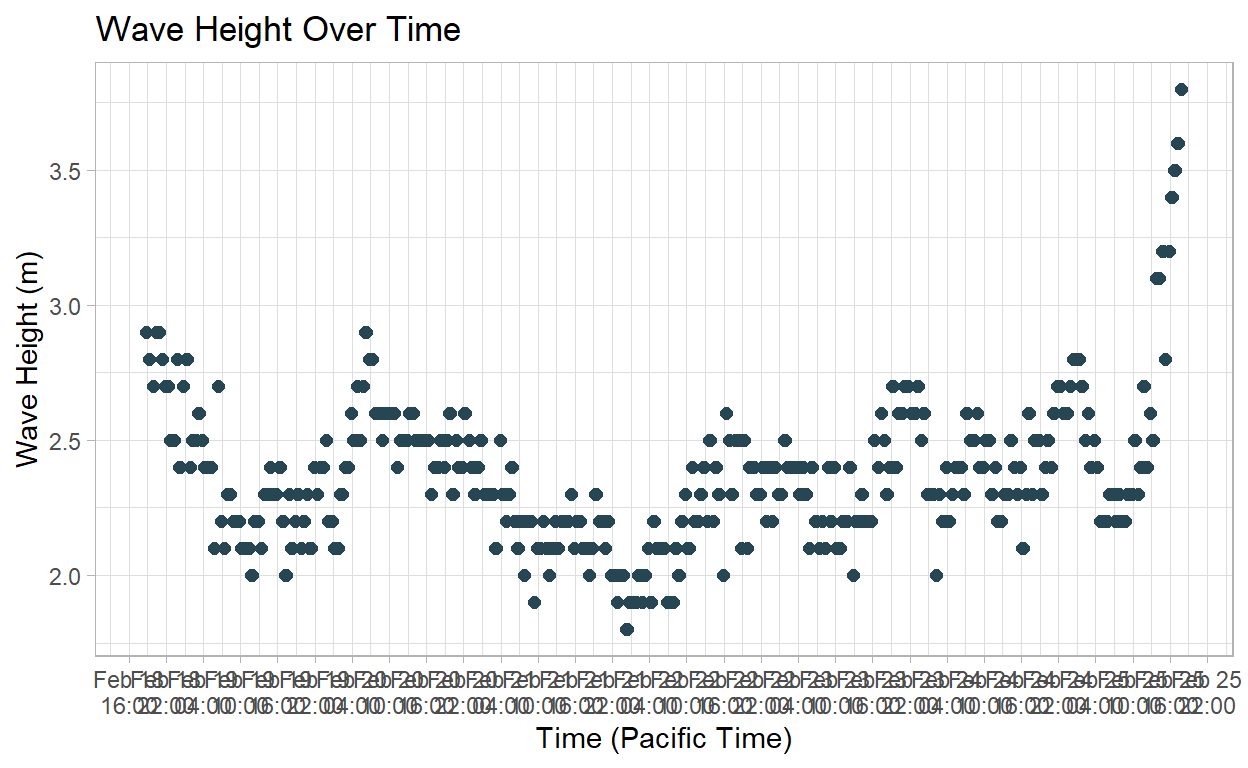
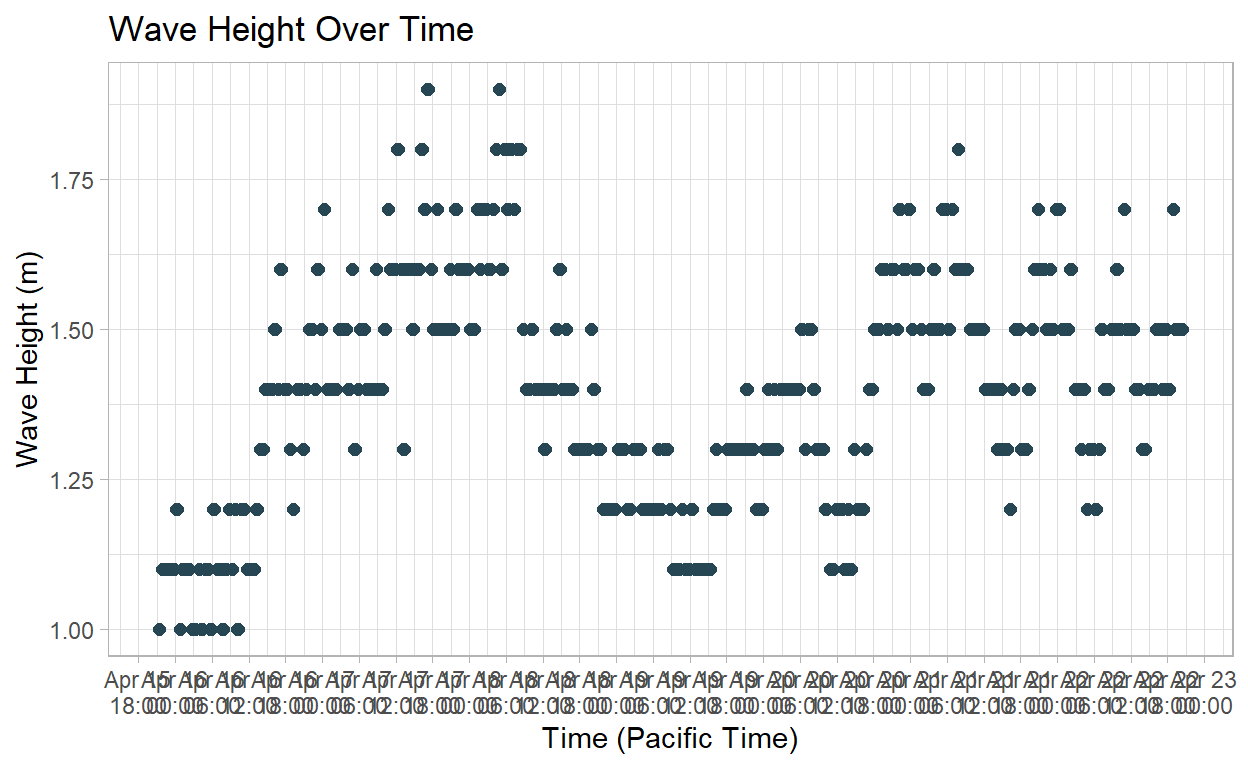
Trying again

diff --git a/_posts/dashboard.html b/_posts/dashboard.html
@@ -1601,7 +1601,7 @@ Water Temp (degrees C)
 <tbody>
 <tr>
 <td style="text-align:left;">
-2025-02-25 18:10
+2025-04-22 20:40
 </td>
 <td style="text-align:right;">
 NA
@@ -1613,12 +1613,12 @@ NA
 NA
 </td>
 <td style="text-align:right;">
-12.6
+13
 </td>
 </tr>
 <tr>
 <td style="text-align:left;">
-2025-02-25 18:00
+2025-04-22 20:30
 </td>
 <td style="text-align:right;">
 NA
@@ -1630,24 +1630,24 @@ NA
 NA
 </td>
 <td style="text-align:right;">
-12.6
+13
 </td>
 </tr>
 <tr>
 <td style="text-align:left;">
-2025-02-25 17:50
+2025-04-22 20:20
 </td>
 <td style="text-align:right;">
-3.8
+1.5
 </td>
 <td style="text-align:right;">
-14
+10
 </td>
 <td style="text-align:right;">
-311
+319
 </td>
 <td style="text-align:right;">
-12.5
+13
 </td>
 </tr>
 </tbody>

diff --git a/docs/posts/index.html b/docs/posts/index.html
@@ -2629,7 +2629,7 @@ Water Temp (degrees C)
 <tbody>
 <tr>
 <td style="text-align:left;">
-2025-02-25 18:10
+2025-04-22 20:40
 </td>
 <td style="text-align:right;">
 NA
@@ -2641,12 +2641,12 @@ NA
 NA
 </td>
 <td style="text-align:right;">
-12.6
+13
 </td>
 </tr>
 <tr>
 <td style="text-align:left;">
-2025-02-25 18:00
+2025-04-22 20:30
 </td>
 <td style="text-align:right;">
 NA
@@ -2658,24 +2658,24 @@ NA
 NA
 </td>
 <td style="text-align:right;">
-12.6
+13
 </td>
 </tr>
 <tr>
 <td style="text-align:left;">
-2025-02-25 17:50
+2025-04-22 20:20
 </td>
 <td style="text-align:right;">
-3.8
+1.5
 </td>
 <td style="text-align:right;">
-14
+10
 </td>
 <td style="text-align:right;">
-311
+319
 </td>
 <td style="text-align:right;">
-12.5
+13
 </td>
 </tr>
 </tbody>
